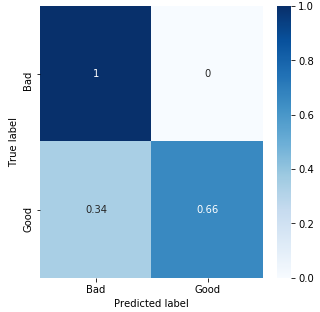
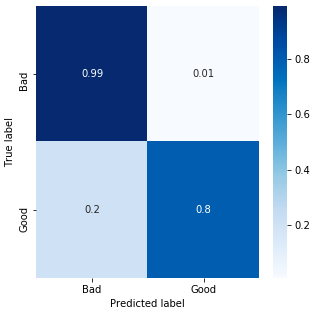
Fix result

diff --git a/README.md b/README.md
@@ -71,7 +71,7 @@ This approach (**supervised algorithm**) is based on the idea described at *Bidi
 
 ### Dictionary
 
-A quick comparison show us the we are not detecting all the entities that we should be identify. On the one hand, I am not getting "false entities" (only around $2\%$) which it is pretty good. On the other hand, I only find around $27\%$ entities (very low).
+A quick comparison show us the we are not detecting all the entities that we should be identify. On the one hand, I am not getting "false entities" (only around $2\%$) which it is pretty good. On the other hand, I only find around 27\% entities (very low).
 
 It is not a really bad result for such small dictionary `diseases.txt`.
 
@@ -81,7 +81,7 @@ It is not a really bad result for such small dictionary `diseases.txt`.
 
 ### LSTM-CRF
 
-From my point of view, the results are nice: I do not get any false positive, thus I do not identify "false entities" in the text. However, I should keep working on my model to detect all the entities, since there are $34\%$ of them that I am not identifying correctly.
+From my point of view, the results are nice: I barely get any false positive, thus I do not identify "false entities" in the text. However, I should keep working on my model to detect all the entities, since there are 20\% of them that I am not identifying correctly.
 
 <p align="center">
   <img src="./doc/result-ner-lstm-crf.png">
